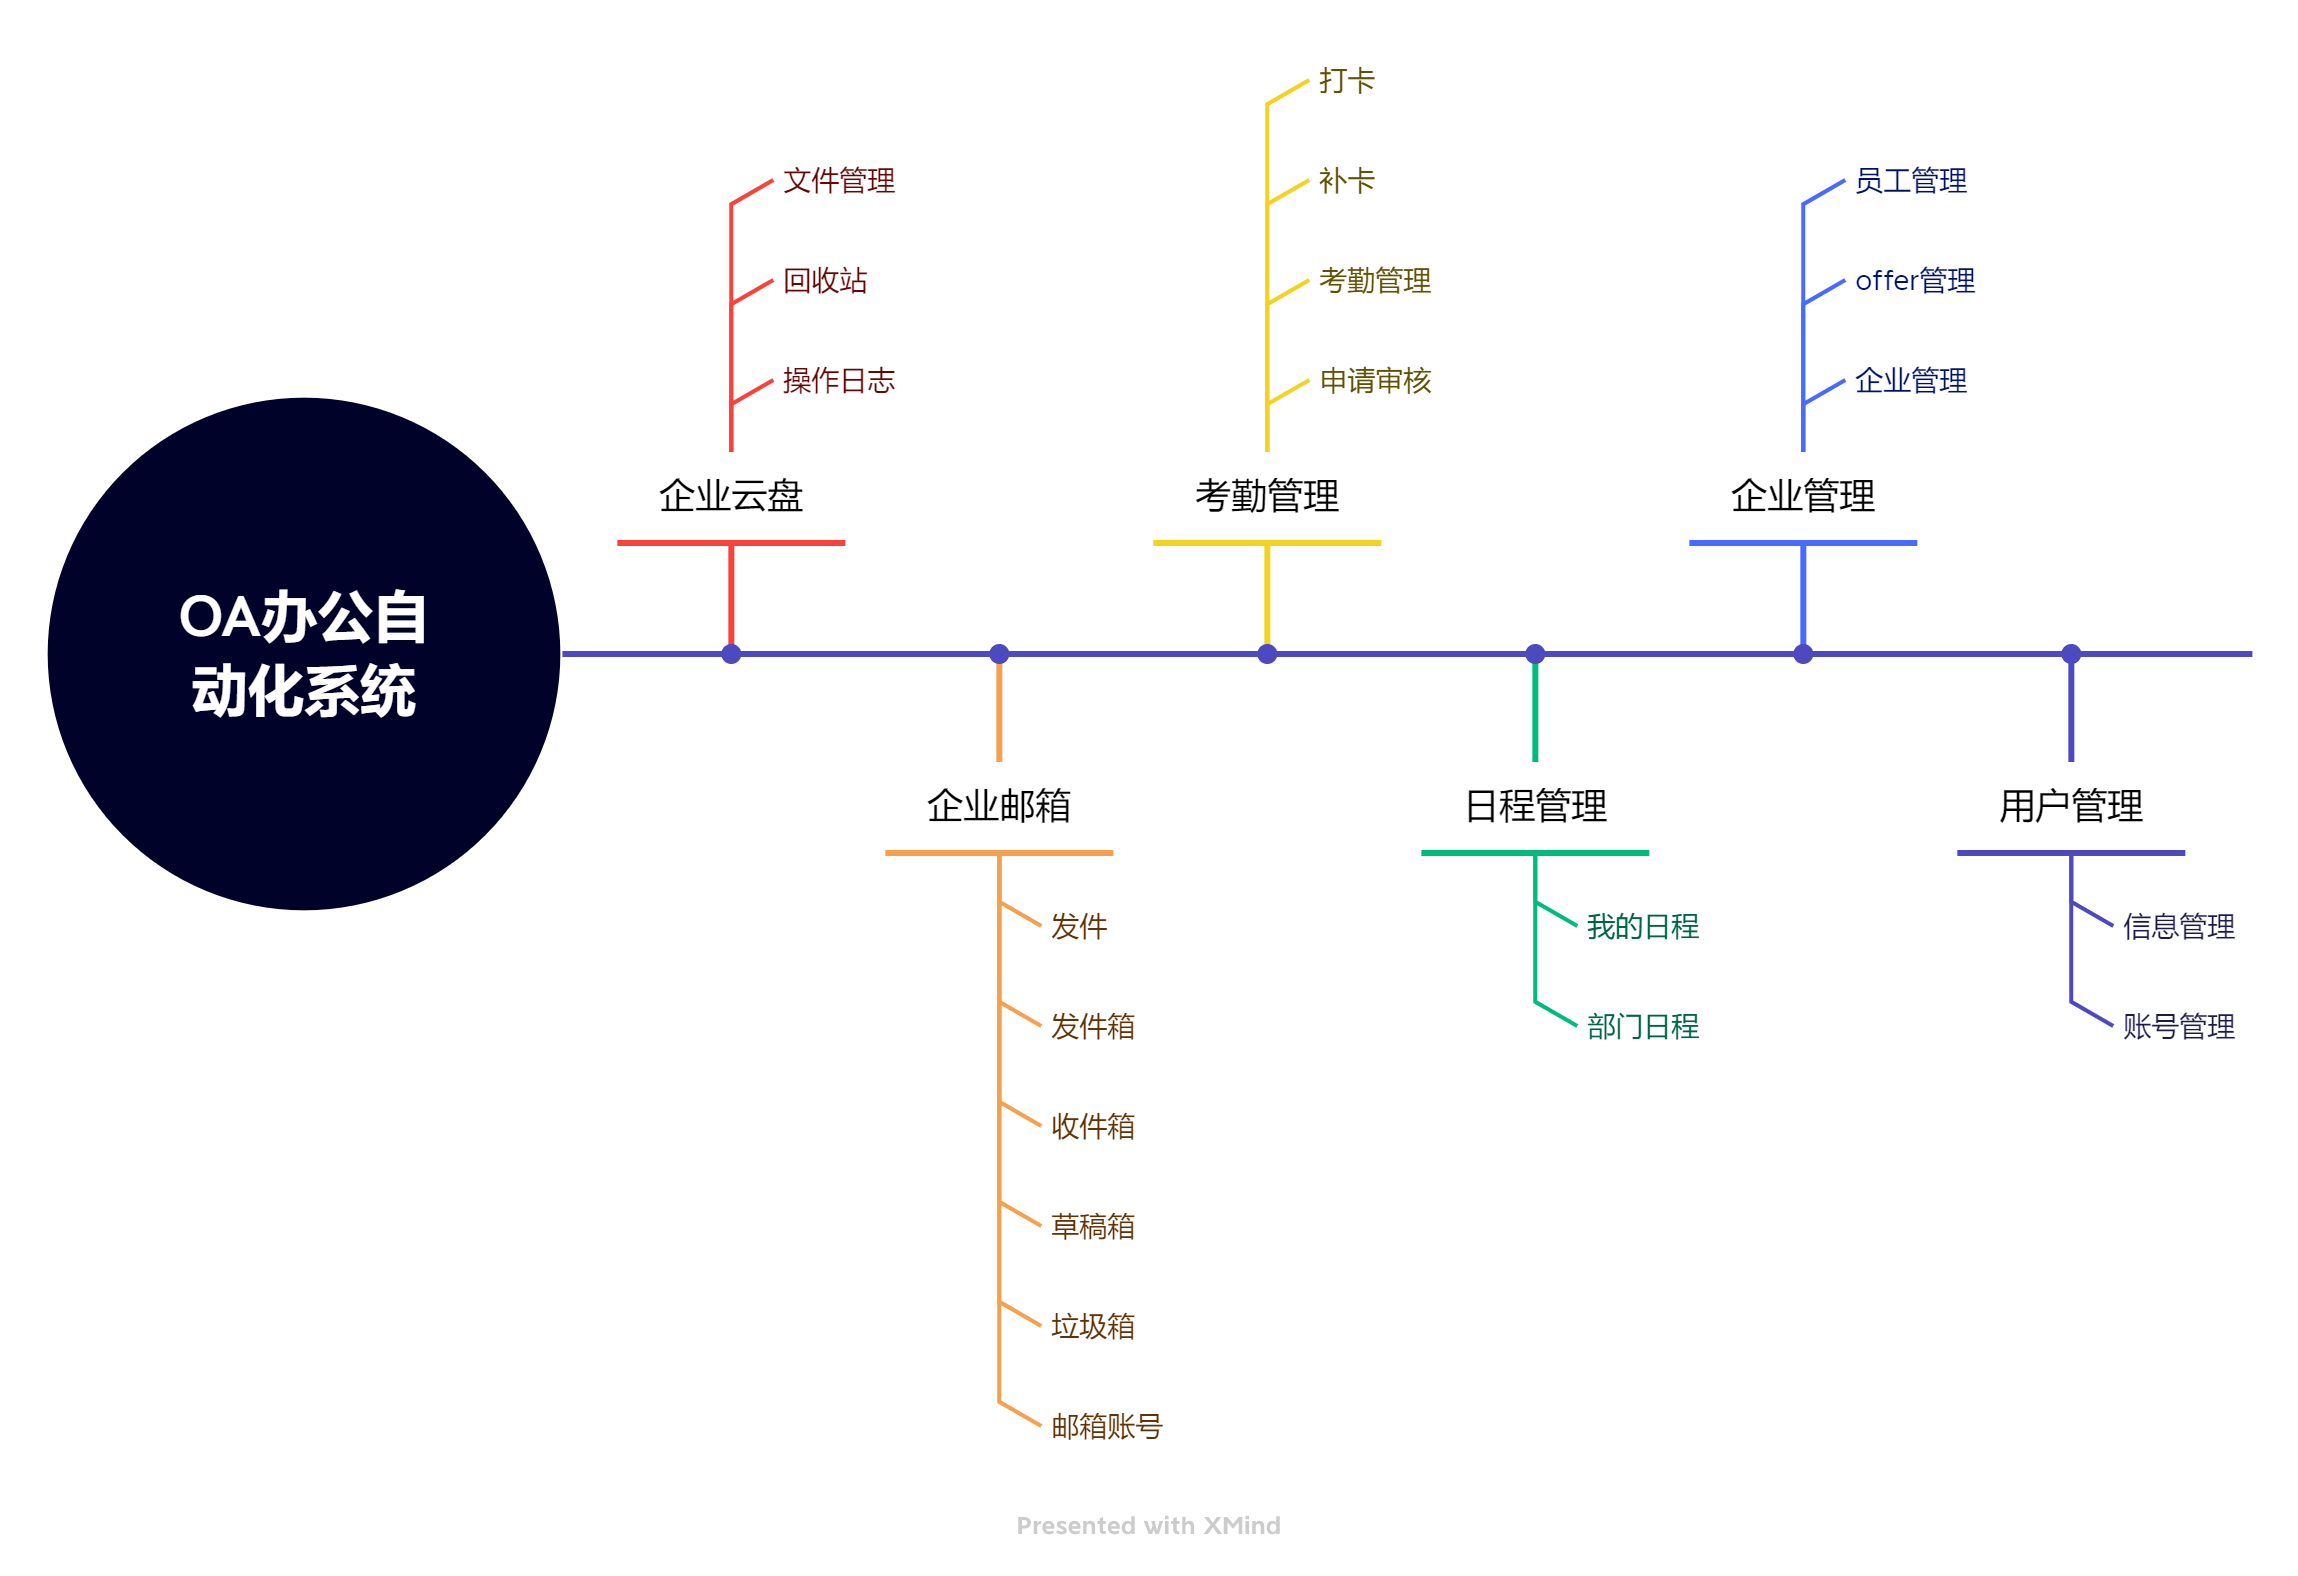
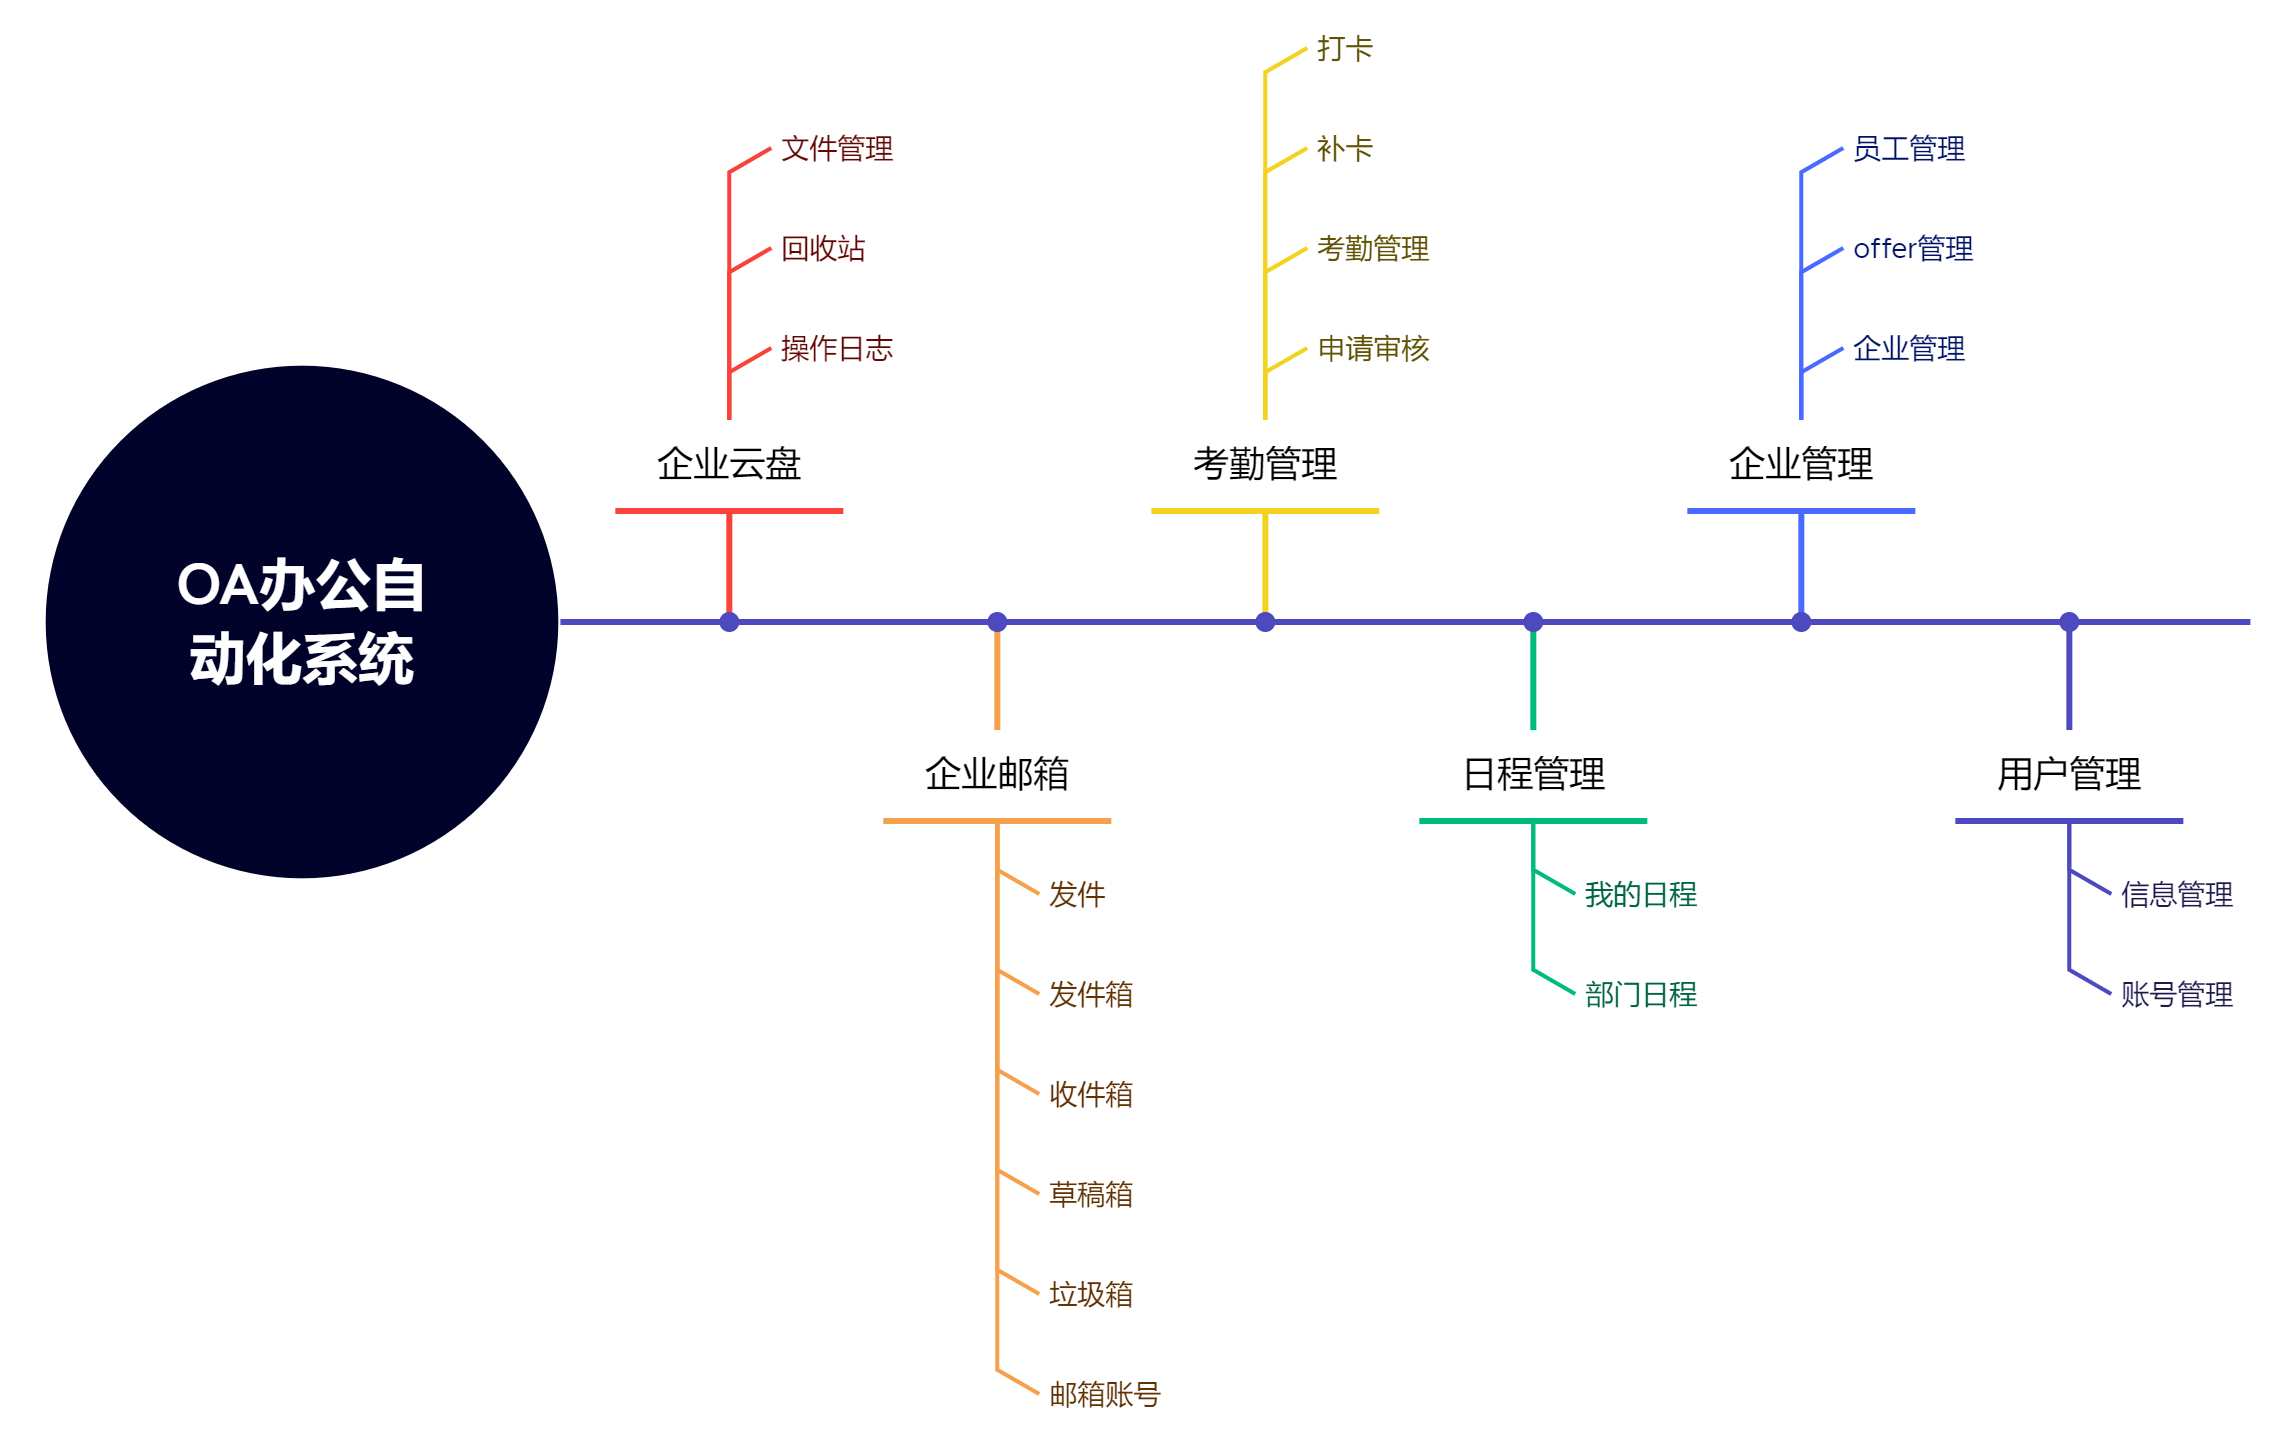
update image

diff --git a/README.md b/README.md
@@ -6,7 +6,7 @@
 
 ### 项目介绍
 
-<img src="https://github.com/Elm-Forest/AutoOffice/blob/master/.github/imgs/introduce.png?raw=true" width="35%" alt="" style="display: inline-block">
+<img src="https://github.com/Elm-Forest/AutoOffice/blob/master/.github/imgs/introduce.png?raw=true" width="75%" alt="" style="display: inline-block">
 
 ### 技术栈
 
